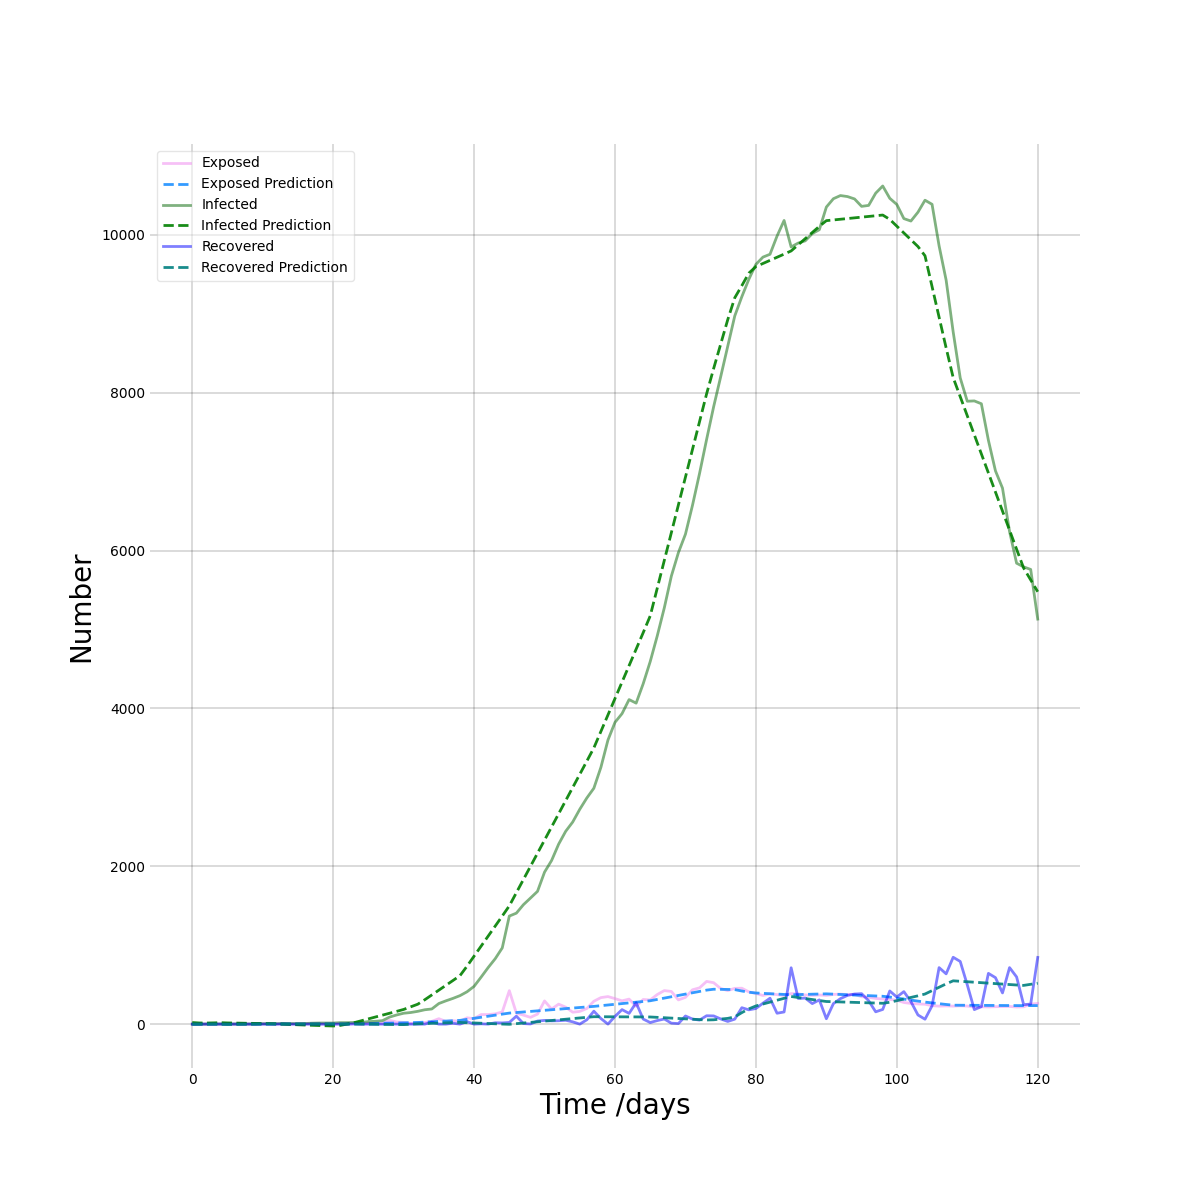
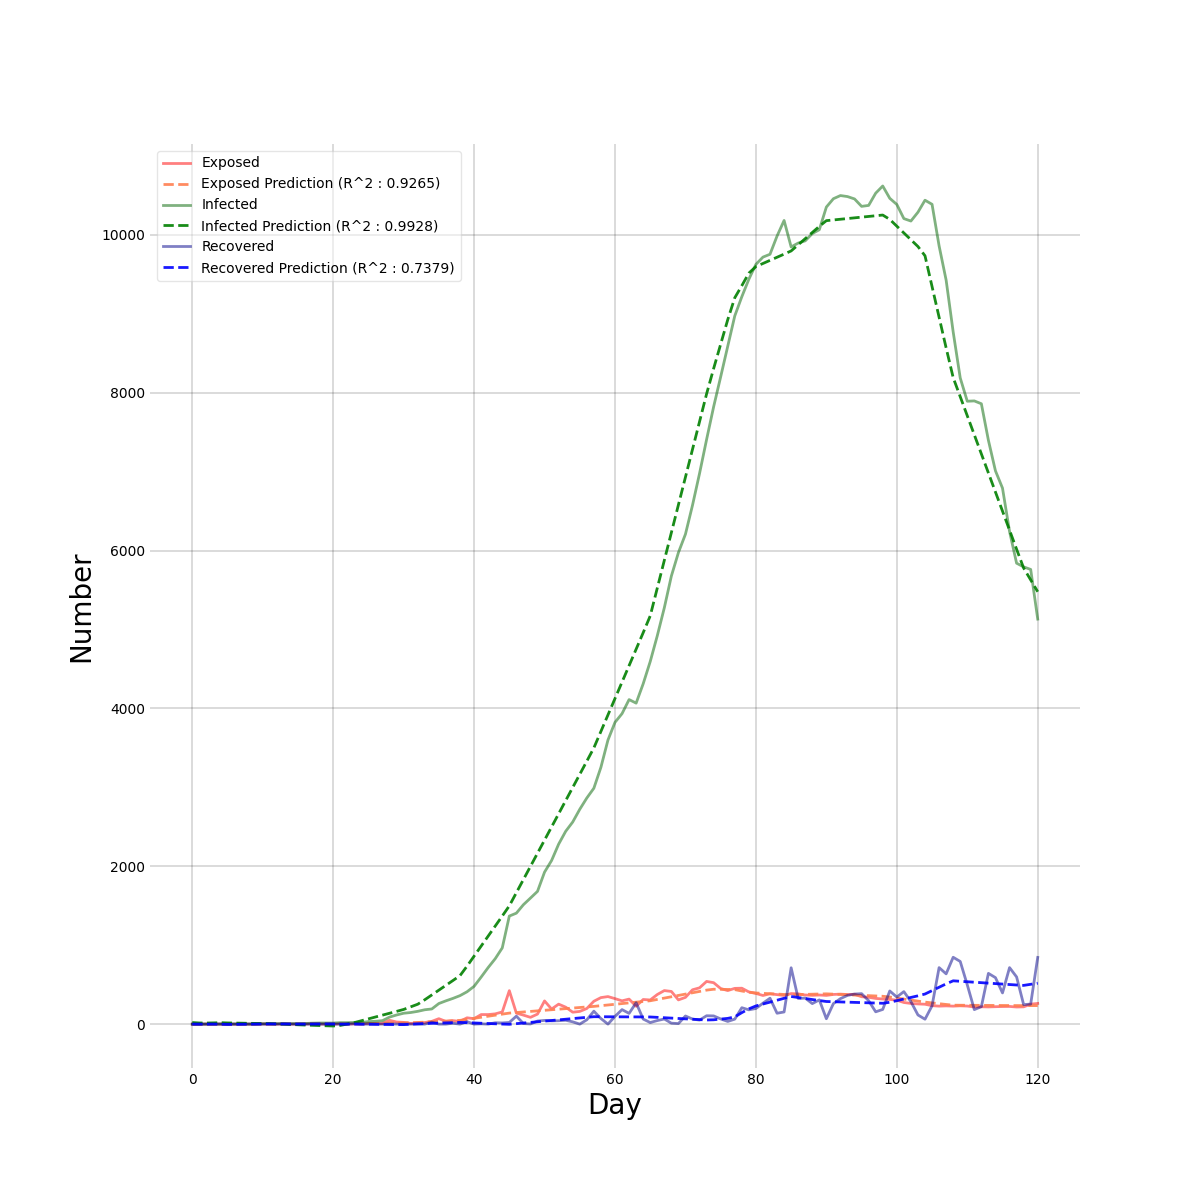
update result plot

diff --git a/First_Phase/postprocess.py b/First_Phase/postprocess.py
@@ -14,6 +14,11 @@ if __name__ == "__main__":
 
     source_data: DataFrame = pd.read_csv(source_data_path)
 
+    r2_S = round(m.r2_score(source_data["S"], predicted_data["S"]), 4)
+    r2_E = round(m.r2_score(source_data["E"], predicted_data["E"]), 4)
+    r2_I = round(m.r2_score(source_data["I"], predicted_data["I"]), 4)
+    r2_R = round(m.r2_score(source_data["R"], predicted_data["R"]), 4)
+
     fig = plt.figure(figsize=(12, 12))
     ax = fig.add_subplot(111, facecolor='#dddddd', axisbelow=True)
     ax.set_facecolor('xkcd:white')
@@ -21,16 +26,19 @@ if __name__ == "__main__":
     #ax.plot(source_data.index, source_data["S"], 'pink', alpha=0.5, lw=2, label='Susceptible')
     #ax.plot(source_data.index, predicted_data["S"], 'red', alpha=0.9, lw=2, label='Susceptible Prediction', linestyle='dashed')
 
-    ax.plot(source_data.index, source_data["E"], 'violet', alpha=0.5, lw=2, label='Exposed')
-    ax.plot(source_data.index, predicted_data["E"], 'dodgerblue', alpha=0.9, lw=2, label='Exposed Prediction', linestyle='dashed')
+    ax.plot(source_data.index, source_data["E"], 'red', alpha=0.5, lw=2, label='Exposed')
+    ax.plot(source_data.index, predicted_data["E"], 'coral', alpha=0.9, lw=2,
+            label='Exposed Prediction (R^2 : {})'.format(r2_E), linestyle='dashed')
 
     ax.plot(source_data.index, source_data["I"], 'darkgreen', alpha=0.5, lw=2, label='Infected')
-    ax.plot(source_data.index, predicted_data["I"], 'green', alpha=0.9, lw=2, label='Infected Prediction', linestyle='dashed')
+    ax.plot(source_data.index, predicted_data["I"], 'green', alpha=0.9, lw=2,
+            label='Infected Prediction (R^2 : {})'.format(r2_I), linestyle='dashed')
 
-    ax.plot(source_data.index, source_data["R"], 'blue', alpha=0.5, lw=2, label='Recovered')
-    ax.plot(source_data.index, predicted_data["R"], 'teal', alpha=0.9, lw=2, label='Recovered Prediction', linestyle='dashed')
+    ax.plot(source_data.index, source_data["R"], 'darkblue', alpha=0.5, lw=2, label='Recovered')
+    ax.plot(source_data.index, predicted_data["R"], 'blue', alpha=0.9, lw=2,
+            label='Recovered Prediction (R^2 : {})'.format(r2_R), linestyle='dashed')
 
-    ax.set_xlabel('Time /days', fontsize=20)
+    ax.set_xlabel('Day', fontsize=20)
     ax.set_ylabel('Number', fontsize=20)
     ax.yaxis.set_tick_params(length=0)
     ax.xaxis.set_tick_params(length=0)
@@ -47,8 +55,8 @@ if __name__ == "__main__":
     print('MSE(I): ', round(m.mean_squared_error(source_data["I"], predicted_data["I"]), 4))
     print('MSE(R): ', round(m.mean_squared_error(source_data["R"], predicted_data["R"]), 4))
 
-    print('R^2(S): ', round(m.r2_score(source_data["S"], predicted_data["S"]), 4))
-    print('R^2(E): ', round(m.r2_score(source_data["E"], predicted_data["E"]), 4))
-    print('R^2(I): ', round(m.r2_score(source_data["I"], predicted_data["I"]), 4))
-    print('R^2(R): {}'.format(round(m.r2_score(source_data["R"], predicted_data["R"]), 4)))
+    print('R^2(S): ', r2_S)
+    print('R^2(E): ', r2_E)
+    print('R^2(I): ', r2_I)
+    print('R^2(R): ', r2_R)
 
